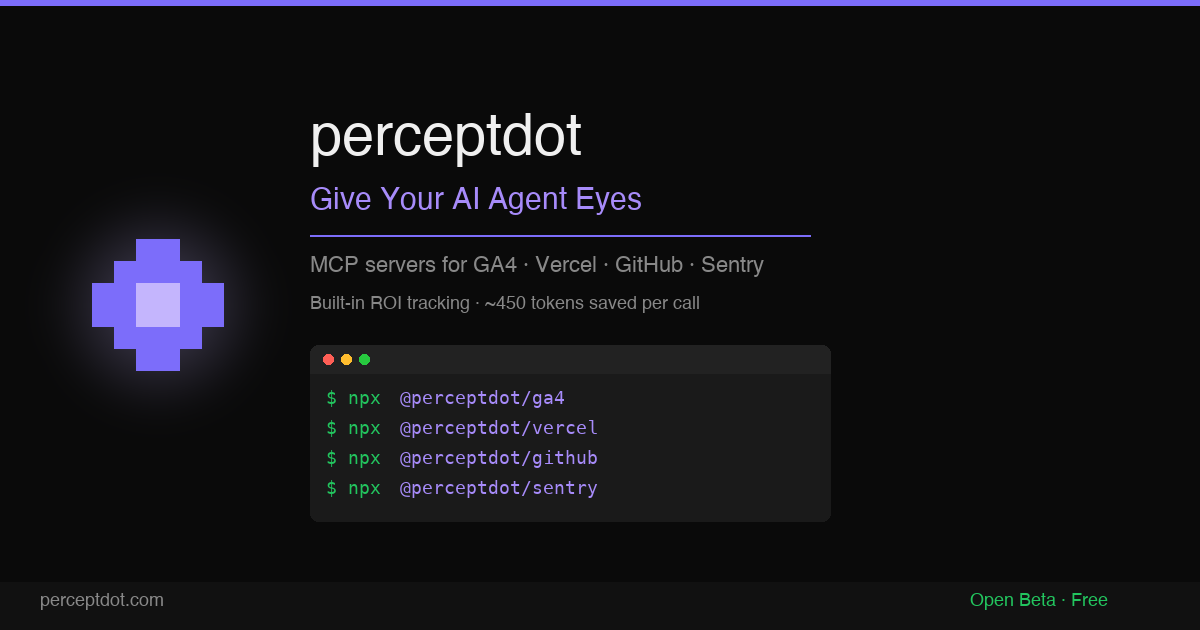
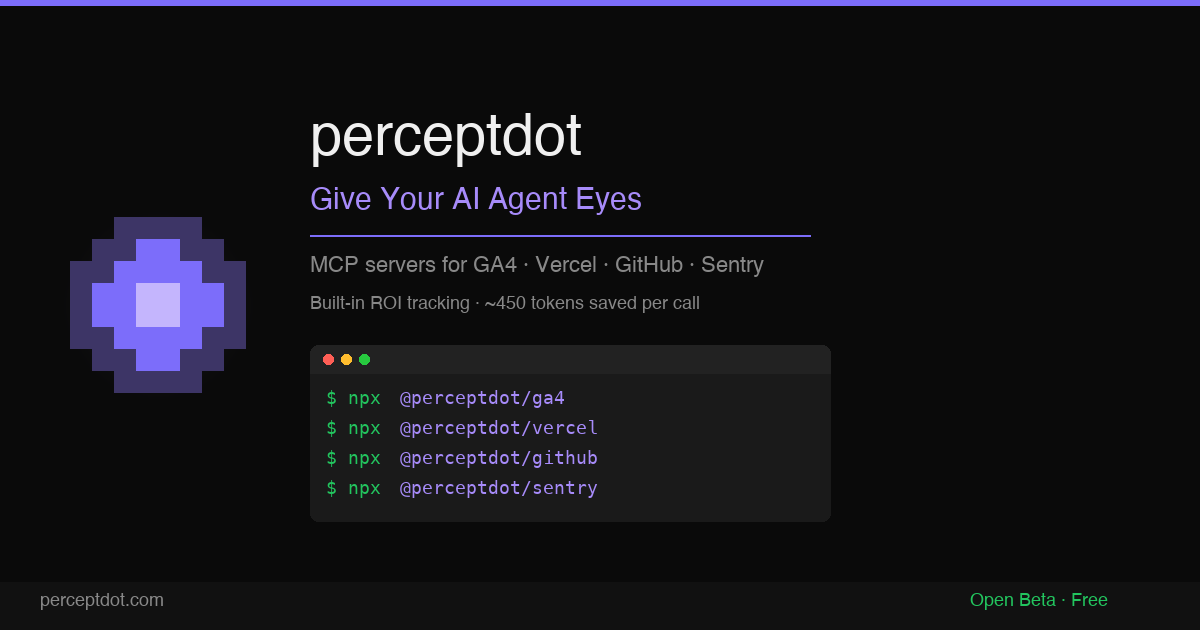
WP [03-23 00:09] main —  2 files changed, 21 insertions(+), 18 deletions(-)

Changed region(s): [[0.0308, 0.3317, 0.2158, 0.6333]]

diff --git a/scripts/generate_og_image.py b/scripts/generate_og_image.py
@@ -16,19 +16,19 @@ DARK2 = (26, 26, 26)      # #1a1a1a
 img = Image.new("RGB", (W, H), BG)
 draw = ImageDraw.Draw(img)
 
-# --- Site header logo: diamond shape with glow (dark border tiles = invisible) ---
-# 0=empty, 1=empty(dark blends with bg), 2=#7c6dfa(main), 3=#c4b5fd(light)
+# --- Brand logo (pixel-logo.html 기준 정확한 픽셀맵) ---
+# 0=empty, 1=#3d3566(dark outer), 2=#7c6dfa(primary), 3=#c4b5fd(glow center)
 eye_map = [
-    [0,0,0,0,0,0,0,0],
-    [0,0,0,2,2,0,0,0],
-    [0,0,2,2,2,2,0,0],
-    [0,2,2,3,3,2,2,0],
-    [0,2,2,3,3,2,2,0],
-    [0,0,2,2,2,2,0,0],
-    [0,0,0,2,2,0,0,0],
-    [0,0,0,0,0,0,0,0],
+    [0,0,1,1,1,1,0,0],
+    [0,1,1,2,2,1,1,0],
+    [1,1,2,2,2,2,1,1],
+    [1,2,2,3,3,2,2,1],
+    [1,2,2,3,3,2,2,1],
+    [1,1,2,2,2,2,1,1],
+    [0,1,1,2,2,1,1,0],
+    [0,0,1,1,1,1,0,0],
 ]
-colors = {0: None, 1: None, 2: (124,109,250), 3: (196,181,253)}
+colors = {0: None, 1: (61,53,102), 2: (124,109,250), 3: (196,181,253)}
 
 # Large eye: each pixel = 22px, positioned center-left
 eye_px = 22
@@ -40,16 +40,19 @@ eye_start_y = (H - eye_h) // 2 - 10
 cx = eye_start_x + eye_w // 2
 cy = eye_start_y + eye_h // 2
 
-# --- Glow effect using brand color #c4b5fd (p-glow) ---
+# --- Glow: 중앙 p3 픽셀 기준 (box-shadow: 0 0 6px 1px rgba(196,181,253,0.7)) ---
 from PIL import ImageFilter
+GLOW = (196, 181, 253)  # #c4b5fd
 glow_layer = Image.new("RGB", (W, H), BG)
 glow_draw = ImageDraw.Draw(glow_layer)
-GLOW = (196, 181, 253)  # --p-glow: #c4b5fd
-for r in range(110, 0, -1):
-    t = 1 - r / 110
-    gc = tuple(int(BG[i] + (GLOW[i] - BG[i]) * t * 0.35) for i in range(3))
-    glow_draw.ellipse([cx - r, cy - r, cx + r, cy + r], fill=gc)
-glow_blurred = glow_layer.filter(ImageFilter.GaussianBlur(radius=18))
+# p3 픽셀 중심: 그리드 (3,3)~(4,4)
+p3_cx = eye_start_x + 3 * eye_px + eye_px  # 중앙 x
+p3_cy = eye_start_y + 3 * eye_px + eye_px  # 중앙 y
+for r in range(80, 0, -1):
+    t = (1 - r / 80) ** 1.5
+    gc = tuple(int(BG[i] + (GLOW[i] - BG[i]) * t * 0.55) for i in range(3))
+    glow_draw.ellipse([p3_cx - r, p3_cy - r, p3_cx + r, p3_cy + r], fill=gc)
+glow_blurred = glow_layer.filter(ImageFilter.GaussianBlur(radius=14))
 img.paste(glow_blurred, (0, 0))
 draw = ImageDraw.Draw(img)
 
